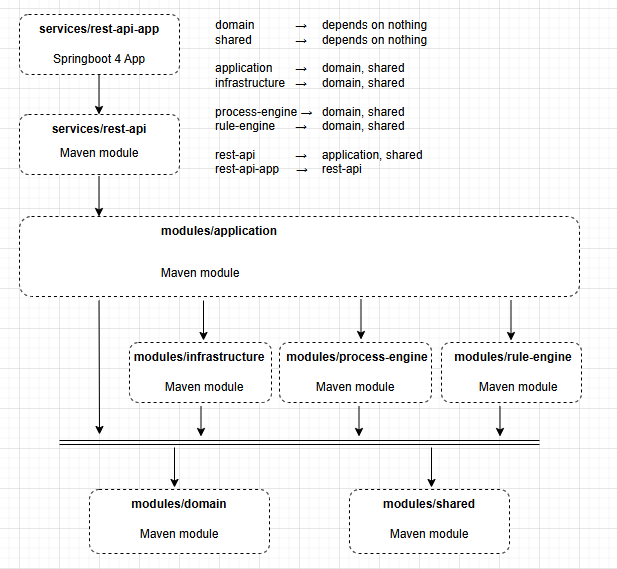
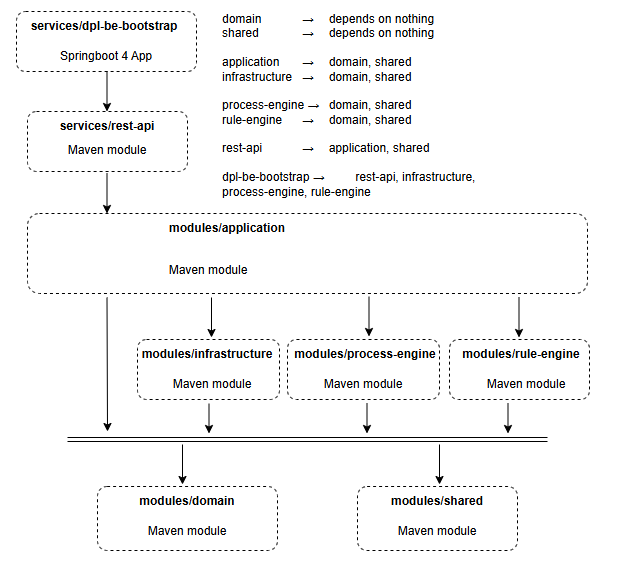
20260212 cm1

diff --git a/source-code/backend/services/dpl-be-bootstrap/src/main/java/dpl/be/bootstrap/config/PlatformDbConfig.java b/source-code/backend/services/dpl-be-bootstrap/src/main/java/dpl/be/bootstrap/config/PlatformDbConfig.java
@@ -1,4 +1,4 @@
-package dpl.be.infrastructure.persistence.config;
+package dpl.be.bootstrap.config;
 
 import jakarta.persistence.EntityManagerFactory;
 import lombok.extern.slf4j.Slf4j;
@@ -25,7 +25,7 @@ import java.util.Map;
 @Configuration
 @EnableTransactionManagement
 @EnableJpaRepositories(
-        basePackages = "dpl.be.infrastructure.repository.platform",
+        basePackages = "dpl.be.infrastructure.persistence.jpa",
         entityManagerFactoryRef = "platformEntityManagerFactory",
         transactionManagerRef = "platformTransactionManager"
 )
@@ -45,6 +45,7 @@ public class PlatformDbConfig {
         return ds;
     }
 
+
     @Primary
     @Bean(name = "platformEntityManagerFactory")
     public LocalContainerEntityManagerFactoryBean platformEntityManagerFactory(
@@ -59,8 +60,7 @@ public class PlatformDbConfig {
 
         return builder
                 .dataSource(dataSource)
-//                .packages("vuxe.domain.ordering.entity", "vuxe.domain.common.entity")
-                .packages("smart.lending.infrastructure.entity")
+                .packages("dpl.be.infrastructure.persistence.entity")
                 .persistenceUnit("platform")
                 .properties(jpaProperties)
                 .build();
@@ -72,4 +72,6 @@ public class PlatformDbConfig {
     ) {
         return new JpaTransactionManager(emf);
     }
+
+
 }

diff --git a/source-code/backend/services/dpl-be-bootstrap/src/main/java/dpl/be/bootstrap/DplBeBootstrap.java b/source-code/backend/services/dpl-be-bootstrap/src/main/java/dpl/be/bootstrap/DplBeBootstrap.java
@@ -1,11 +1,11 @@
-package dpl.be.rest.app;
+package dpl.be.bootstrap;
 
 import org.springframework.boot.SpringApplication;
 import org.springframework.boot.autoconfigure.SpringBootApplication;
 
 @SpringBootApplication(scanBasePackages = "dpl.be")
-public class RestApp {
+public class DplBeBootstrap {
     public static void main(String[] args) {
-        SpringApplication.run(RestApp.class, args);
+        SpringApplication.run(DplBeBootstrap.class, args);
     }
 }

diff --git a/source-code/backend/services/dpl-be-bootstrap/src/main/java/dpl/be/bootstrap/config/ProcessDbConfig.java b/source-code/backend/services/dpl-be-bootstrap/src/main/java/dpl/be/bootstrap/config/ProcessDbConfig.java
@@ -1,4 +1,4 @@
-package dpl.be.process.config;
+package dpl.be.bootstrap.config;
 
 import lombok.extern.slf4j.Slf4j;
 import org.springframework.beans.factory.annotation.Qualifier;

diff --git a/source-code/backend/services/dpl-be-bootstrap/src/main/java/dpl/be/bootstrap/config/ProcessEngineConfig.java b/source-code/backend/services/dpl-be-bootstrap/src/main/java/dpl/be/bootstrap/config/ProcessEngineConfig.java
@@ -1,4 +1,4 @@
-package dpl.be.process.config;
+package dpl.be.bootstrap.config;
 
 import org.flowable.engine.*;
 import org.flowable.spring.ProcessEngineFactoryBean;

diff --git a/source-code/backend/modules/process-engine/src/main/java/dpl/be/process/employee/onboard/OffSample.java b/source-code/backend/modules/process-engine/src/main/java/dpl/be/process/employee/onboard/OffSample.java
@@ -1,0 +1,4 @@
+package dpl.be.process.employee.onboard;
+
+public class OffSample {
+}

diff --git a/source-code/backend/modules/process-engine/src/main/java/dpl/be/process/employee/offboard/OSample.java b/source-code/backend/modules/process-engine/src/main/java/dpl/be/process/employee/offboard/OSample.java
@@ -1,0 +1,4 @@
+package dpl.be.process.employee.offboard;
+
+public class OSample {
+}
